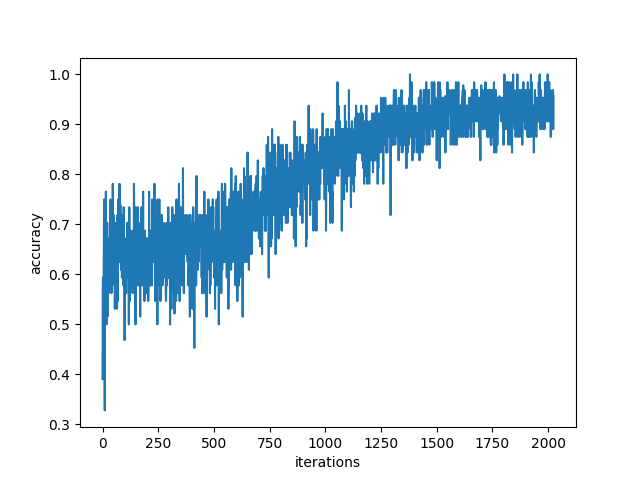
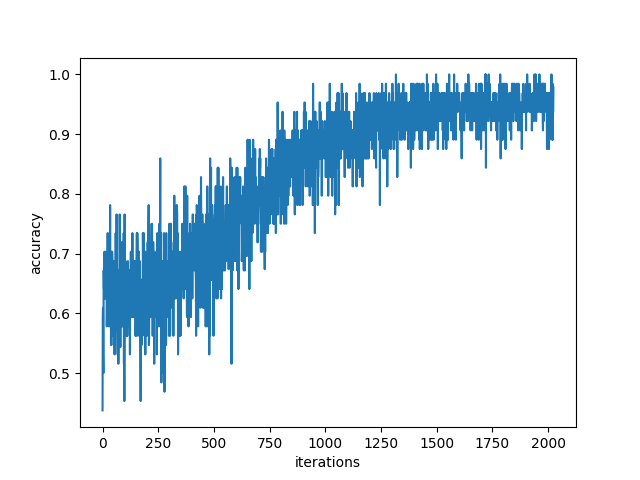
smile working on regularization

diff --git a/Vishal_tests/base/smile_model.py b/Vishal_tests/base/smile_model.py
@@ -222,9 +222,6 @@ model = nn.Sequential(
     nn.Conv2d(32, 64, kernel_size=3, stride=1),
     nn.ReLU(inplace=True),
     nn.AdaptiveMaxPool2d(64),
-    nn.Conv2d(64, 64, kernel_size=3, stride=1, padding=1),
-    nn.ReLU(inplace=True),
-    nn.BatchNorm2d(64),
     nn.Conv2d(64, 64, kernel_size=3, stride=1),
     nn.ReLU(inplace=True),
     nn.BatchNorm2d(64),
@@ -243,7 +240,7 @@ print("defined model")
 model.type(dtype)
 model.train()
 loss_fn = nn.CrossEntropyLoss().type(dtype)
-optimizer = optim.Adam(model.parameters(), lr=5e-5,weight_decay=0)
+optimizer = optim.Adam(model.parameters(), lr=5e-5,weight_decay=0.005)
 print("start training")
 loss_history,acc_history,val_acc_history=train(train_loader,val_loader, model, loss_fn, optimizer, dtype,num_epochs=25, print_every=10)
 
@@ -265,7 +262,6 @@ plt.xlabel("iterations")
 plt.ylabel("validation accuracy")
 plt.savefig("val_smile_acc.png")
 plt.gcf().clear()
-
 
 torch.save(model.state_dict(), save_model_path)
 state_dict = torch.load(save_model_path)
